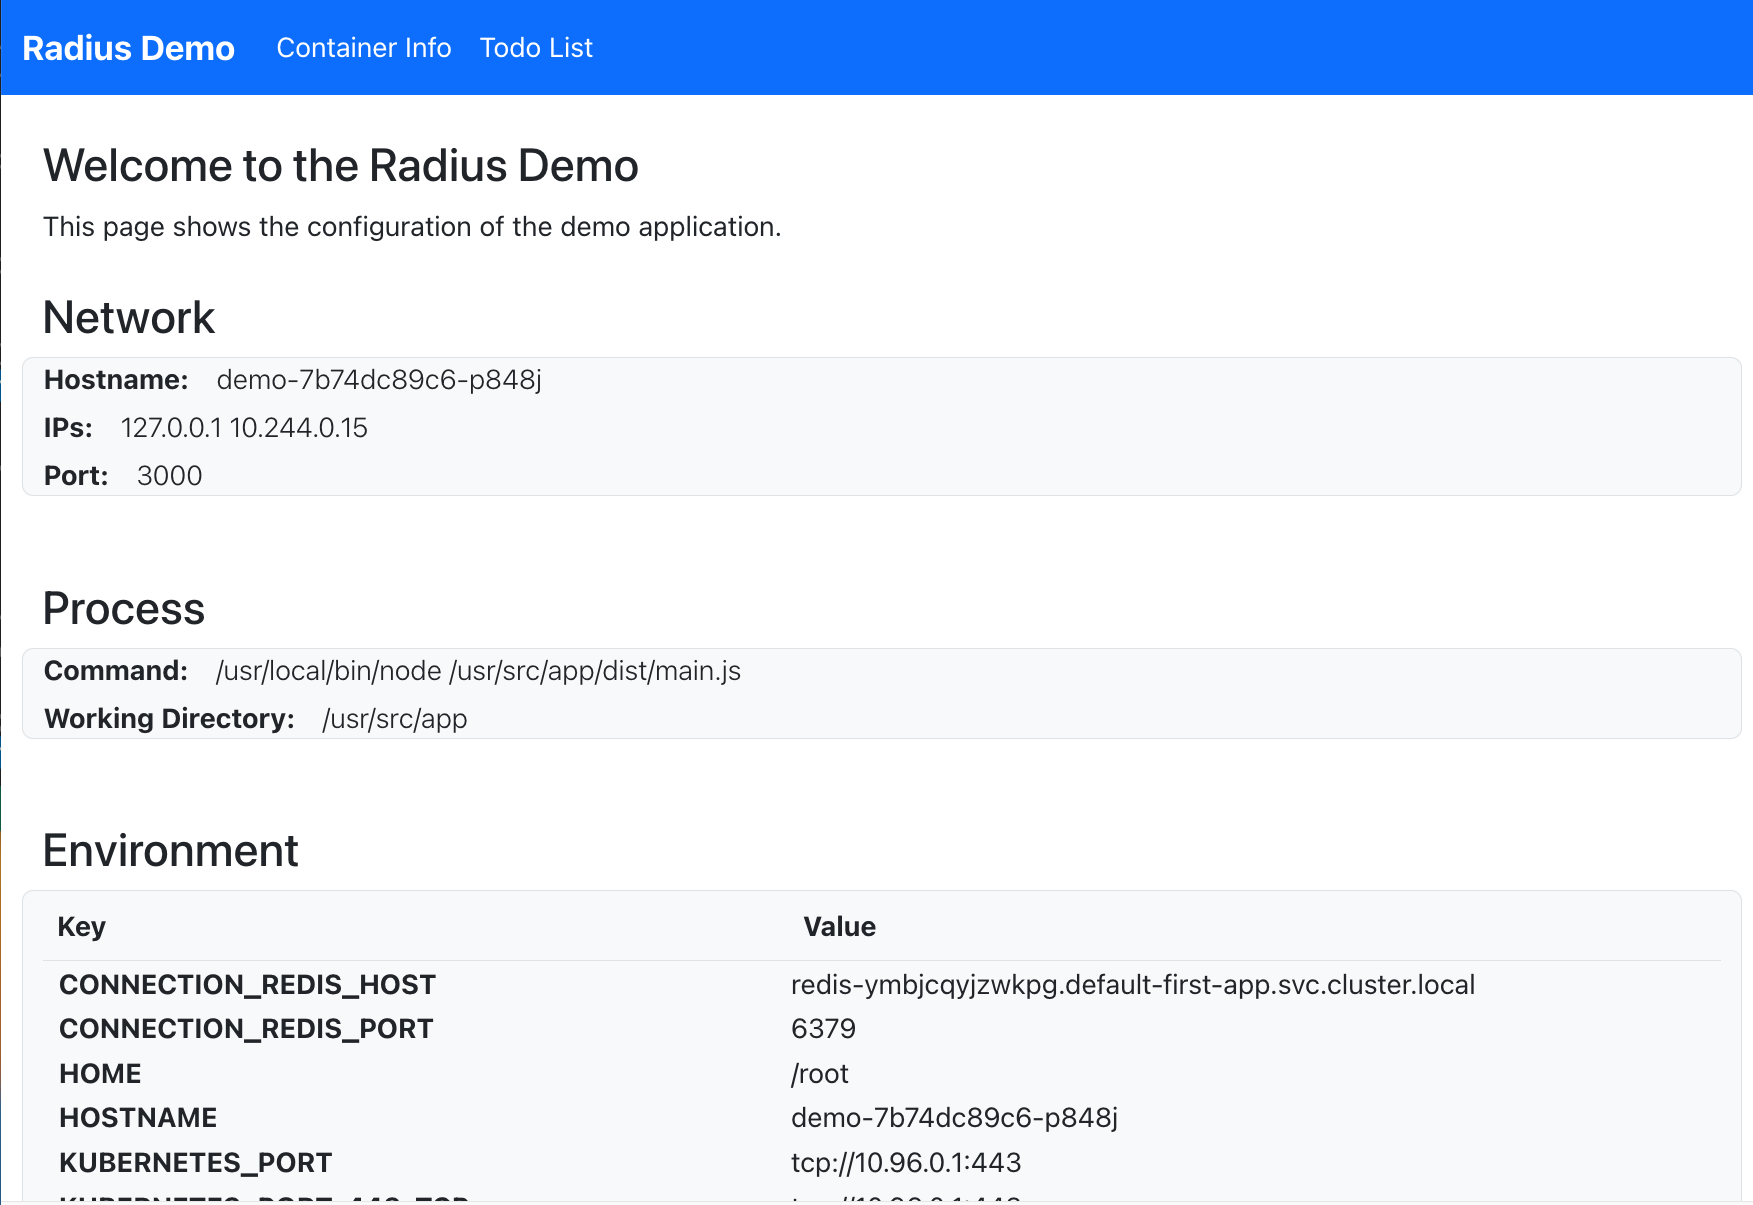
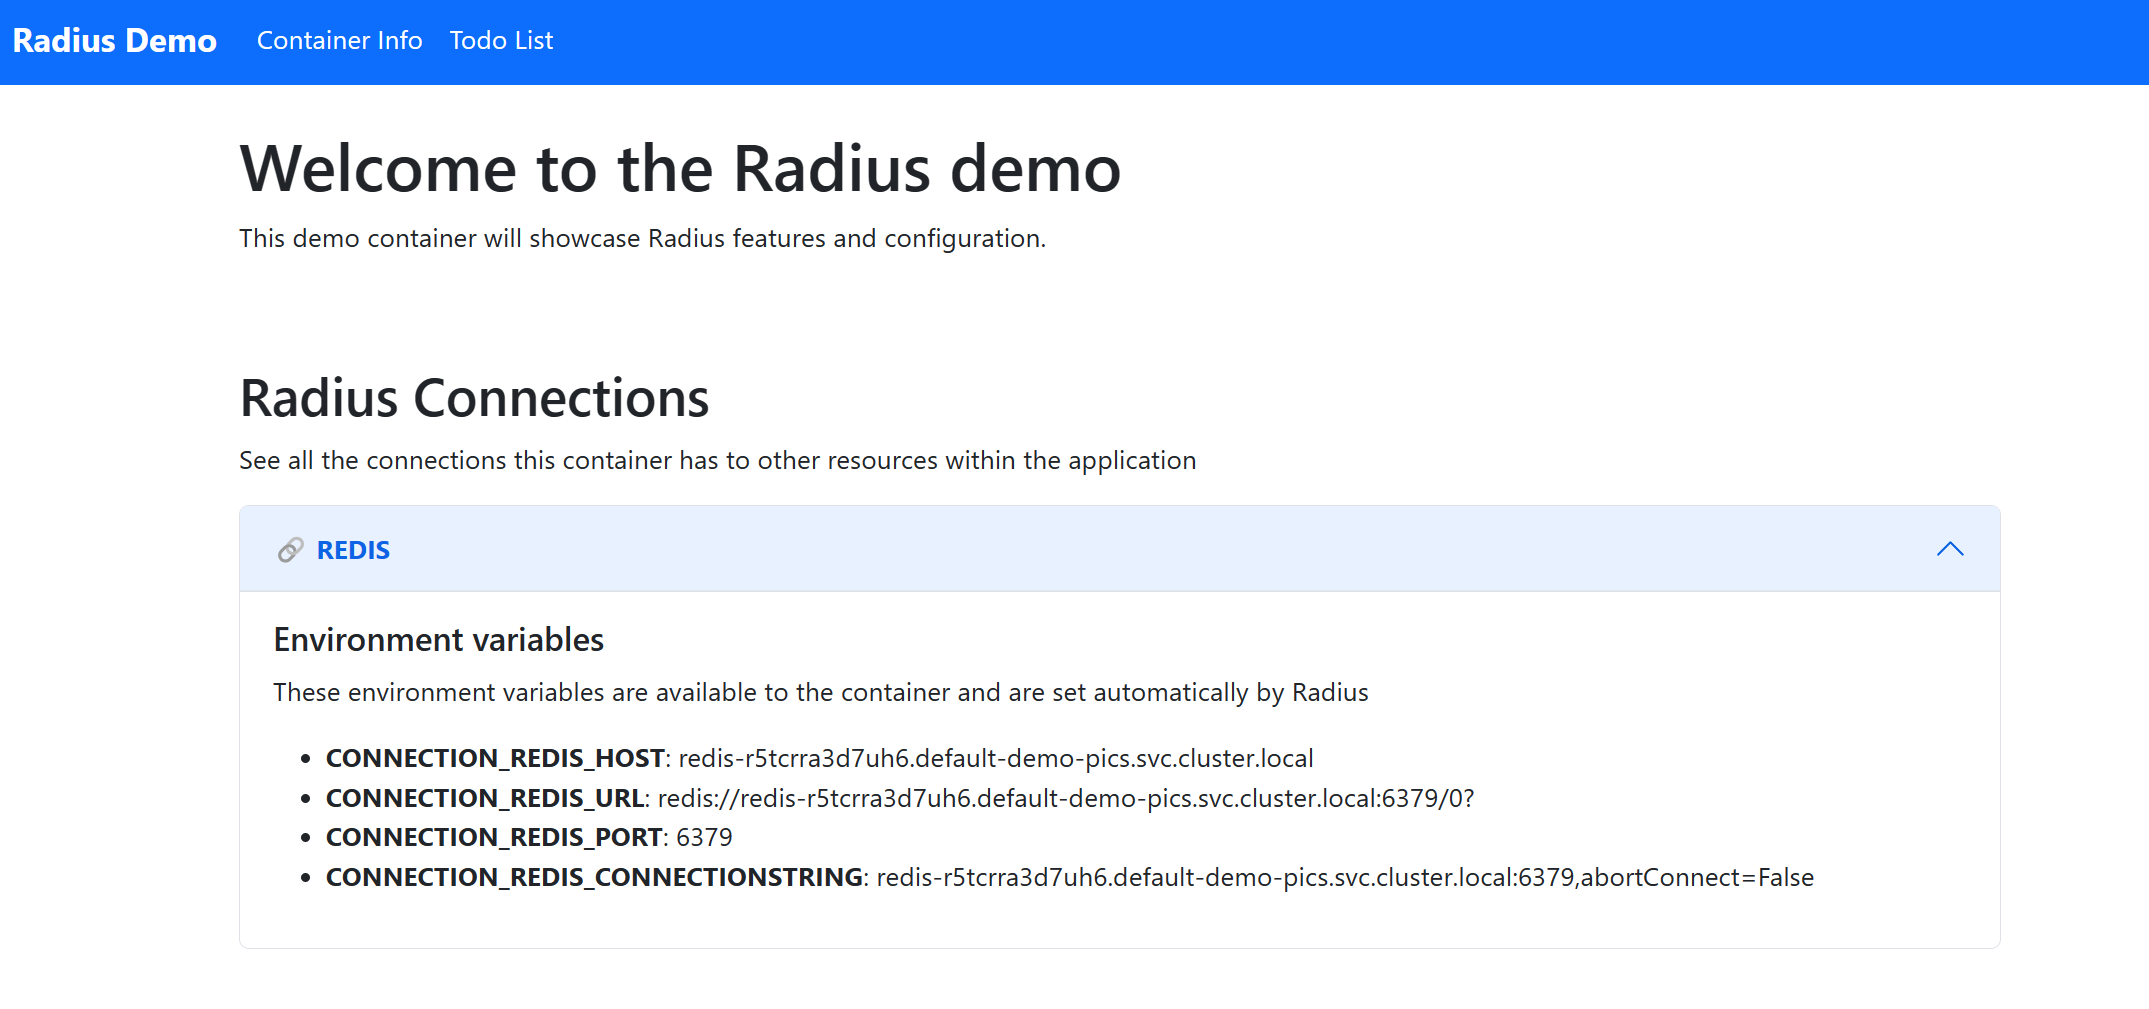
Update screenshots of demo container (#779)
* Update images

* Update image sizes

* Update docs/content/getting-started/index.md

---------

diff --git a/docs/content/getting-started/index.md b/docs/content/getting-started/index.md
@@ -113,11 +113,13 @@ This command:
 - Creates a port-forward from localhost to port 3000 inside the container so you can navigate to the app's frontend UI
 - Streams container logs to your terminal
 
-<img src="./demo-screenshot.png" alt="Screenshot of the demo container" width=400>
-<br /><br />
-Congrats! You're running your first Radius app.
+In your browser you should see the demo app:
 
-When you're ready to move on to the next step, use `CTRL+C` to exit the command.
+<img src="./demo-screenshot.png" alt="Screenshot of the demo container" width=600px >
+<br /><br />
+
+Congrats! You're running your first Radius app. When you're ready to move on to the next step, use <kbd>CTRL</kbd>+ <kbd>C</kbd> to exit the command.
+
 
 ## 5. Add Database
 
@@ -152,17 +154,17 @@ Use the command below to run the updated application again, then open the browse
 rad run app.bicep
 ```
 
-You should see that the environment variables have changed. The `demo` container now has connection information for Redis (`CONNECTION_REDIS_HOST`, `CONNECTION_REDIS_PORT`).
+You should see the Radius Connections section with new environment variables added. The `demo` container now has connection information for Redis (`CONNECTION_REDIS_HOST`, `CONNECTION_REDIS_PORT`, etc.):
 
-<img src="./demo-with-redis-screenshot.png" alt="Screenshot of the demo container" width=500>
+<img src="./demo-with-redis-screenshot.png" alt="Screenshot of the demo container" width=800px >
 <br /><br />
 
-Navigate to the TODO List tab and test out the application. Using the TODO page will update the saved state in Redis.
+Navigate to the Todo List tab and test out the application. Using the Todo page will update the saved state in Redis:
 
-<img src="./demo-with-todolist.png" alt="Screenshot of the todolist" width=500>
+<img src="./demo-with-todolist.png" alt="Screenshot of the todolist" width=700px >
 <br /><br />
 
-Press CTRL+C when you are finished with the website.
+Press <kbd>CTRL</kbd>+ <kbd>C</kbd> when you are finished with the website.
 
 ## Recap and next steps
 
